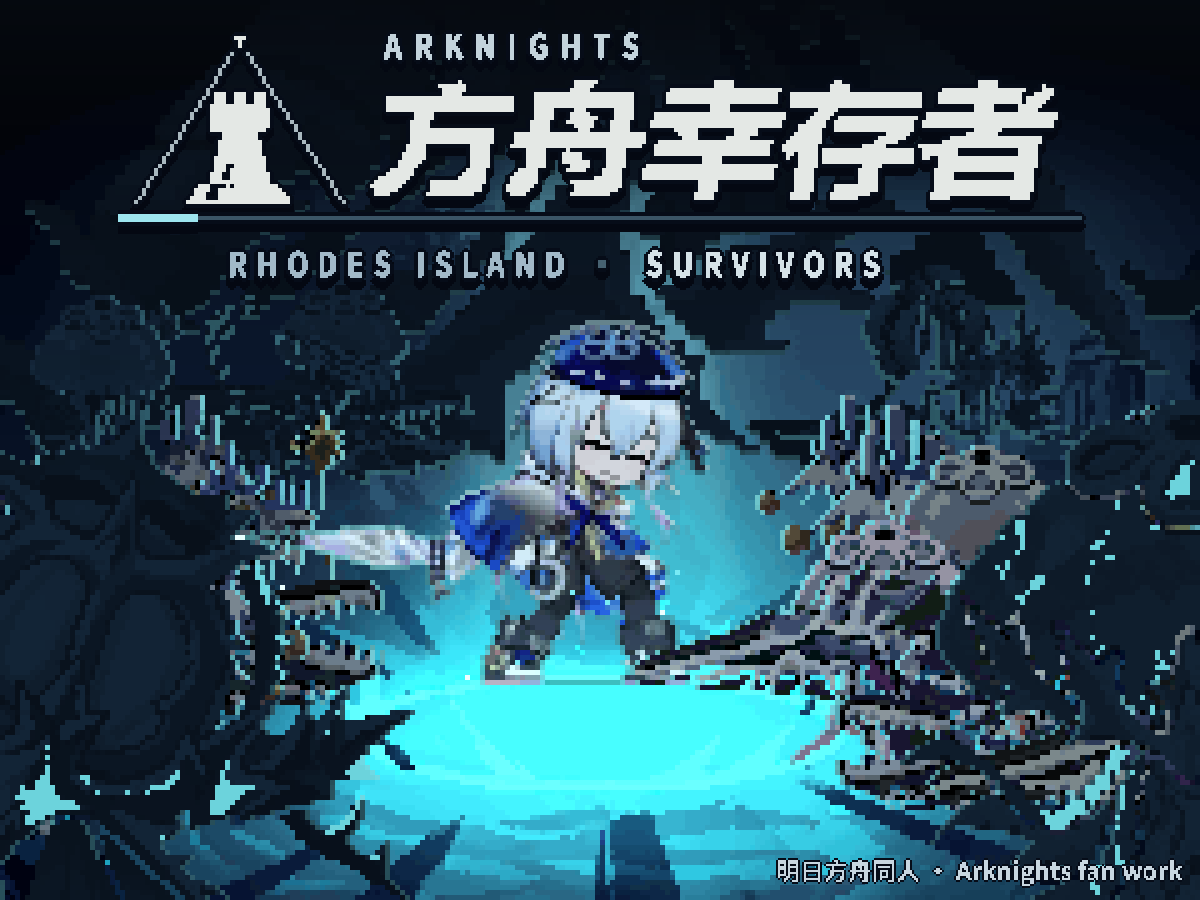
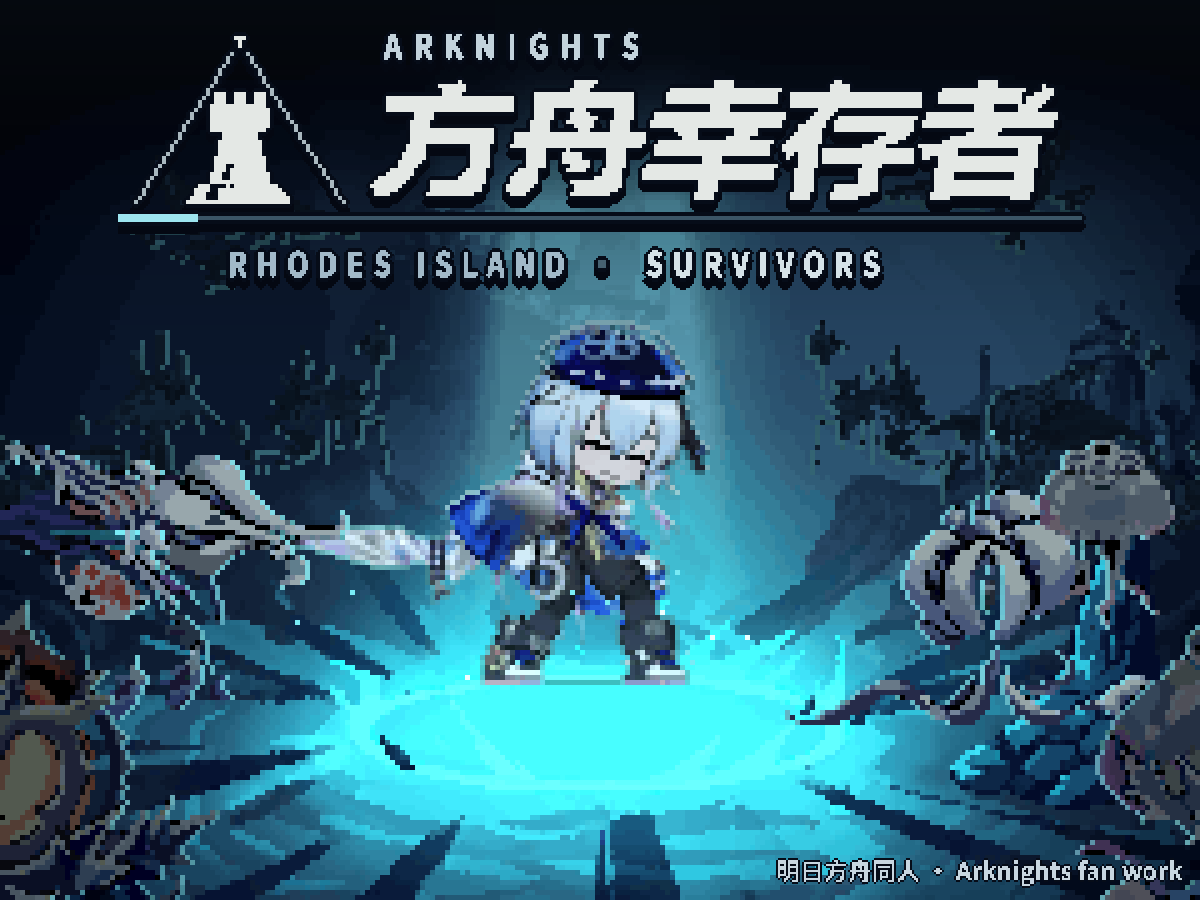
封面 N 手工摆位（用户 11-07）：中景只放轮廓清楚的海嗣、左右楔形压向水月，后排剪影墙，白水母浮上方，前景两角缩小外推；去掉读不出的背景育母暗影

diff --git a/art/promo/itch/cover_g/build_cover_n.py b/art/promo/itch/cover_g/build_cover_n.py
@@ -26,12 +26,26 @@ MIZ = "t:1"
 # (名, 高〔水月高的倍数〕, dx, dy〔水月高为单位，相对光圈中心脚底〕, 亮度, 朝左?)
 # 11-07 用户「少了点压迫感」：怪潮更密更近（程序铺 CROWD 只、两侧叠成墙、只留正前方）、
 # 前景两角大怪拉回画面内、光柱后面一只巨大的育母暗影俯视水月
+# 11-07 用户「手工摆位清理」：每只怪的位置 / 大小 / 亮度手定（不再随机撒）。
+# (名, 高〔水月高倍数〕, dx, dy〔水月高为单位，相对光圈中心脚底〕, 亮度〔< 0.66 = 平涂剪影〕)
+# 原则：中景只放轮廓清楚的（spitter / skimmer / slider / offspring），浅色细碎的（runner 骨鱼、floater 白水母）
+# 放后排当剪影或浮在上方；左右两组呈楔形朝水月压过来，正前方和她身后正中留空。
 LAYOUT = [
-    ("paranoia", 1.75, -1.55, 1.00, 0.45), ("izumik", 1.85, 1.60, 1.08, 0.42),
+    # 前景两角（彩色偏暗，压住下角）
+    ("paranoia", 1.25, -1.78, 1.02, 0.72), ("izumik", 1.30, 1.82, 1.08, 0.70),
+    # 中景左组
+    ("spitter", 0.72, -1.02, 0.10, 0.95), ("skimmer", 0.62, -1.38, -0.16, 0.85),
+    # 中景右组
+    ("slider", 0.64, 1.02, 0.12, 0.95), ("offspring", 0.52, 1.36, -0.14, 0.85),
+    # 后排剪影墙
+    ("runner", 0.46, -1.62, -0.40, 0.55), ("nest", 0.48, -1.18, -0.48, 0.52), ("tracer", 0.44, -0.74, -0.56, 0.5),
+    ("tracer", 0.44, 0.76, -0.56, 0.5), ("skimmer", 0.48, 1.20, -0.48, 0.52), ("runner", 0.46, 1.64, -0.40, 0.55),
+    # 浮在上方的白水母（剪影）
+    ("floater", 0.38, -0.95, -1.05, 0.5), ("floater", 0.34, 1.05, -1.15, 0.48),
 ]
-LOOM = ("mother", 3.6, 0.0, -0.35, 0.30)       # 背景巨物：(名, 高, dx, dy, 亮度)
+LOOM = None   # 11-07：背后育母暗影在顶部只露出锯齿碎边、读不出是怪，去掉（压迫感交给四周怪墙）       # 背景巨物：(名, 高, dx, dy, 亮度)
 CROWD_KINDS = ["slider", "spitter", "skimmer", "runner", "offspring", "floater", "nest", "tracer"]
-CROWD = 38
+CROWD = 0   # 11-07 改为全部手工摆位
 CACHE = {}
 
 
@@ -143,8 +157,9 @@ def build(kind):
     items = sorted((cy + dy * hm, name, hr, cx + dx * hm, br) for name, hr, dx, dy, br in lay)
     g = grid.copy()
     # 背景巨物：压暗成剪影，只留一点轮廓光，最先画（在所有怪和水月后面）
-    ln, lh, ldx, ldy, lbr = LOOM
-    paste(g, to_cells(load_src(ln), int(lh * hm)), cx + ldx * hm, cy + ldy * hm, light, lbr, hm, False)
+    if LOOM:
+        ln, lh, ldx, ldy, lbr = LOOM
+        paste(g, to_cells(load_src(ln), int(lh * hm)), cx + ldx * hm, cy + ldy * hm, light, lbr, hm, False)
     for fy, name, hr, fx, br in items:
         if fy > cy:
             continue
